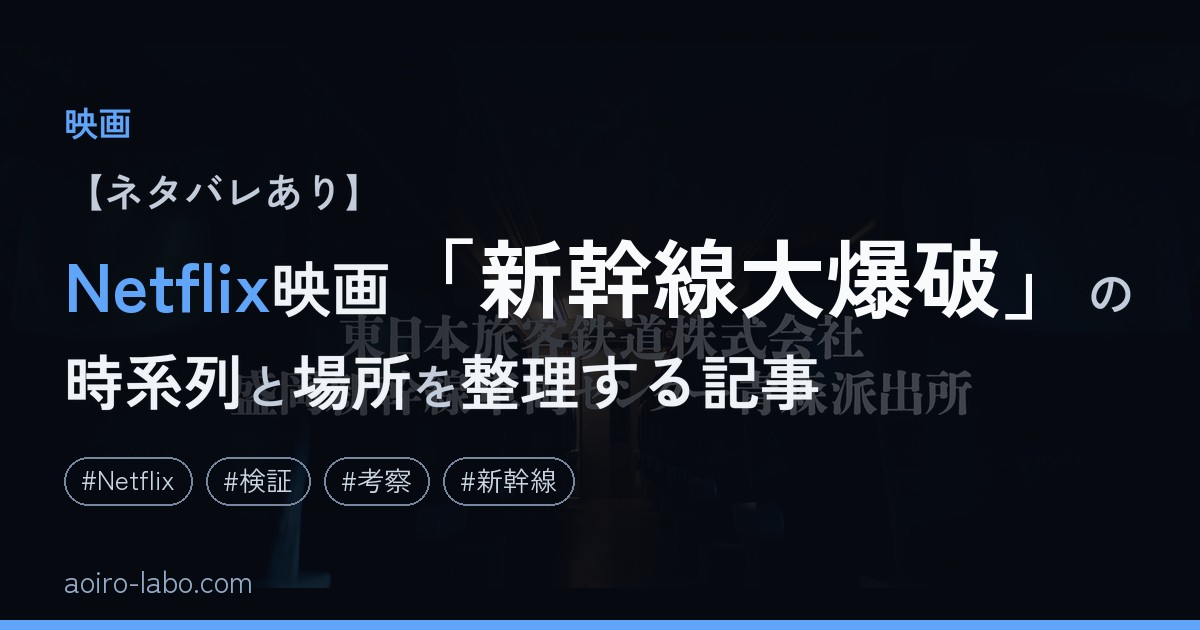
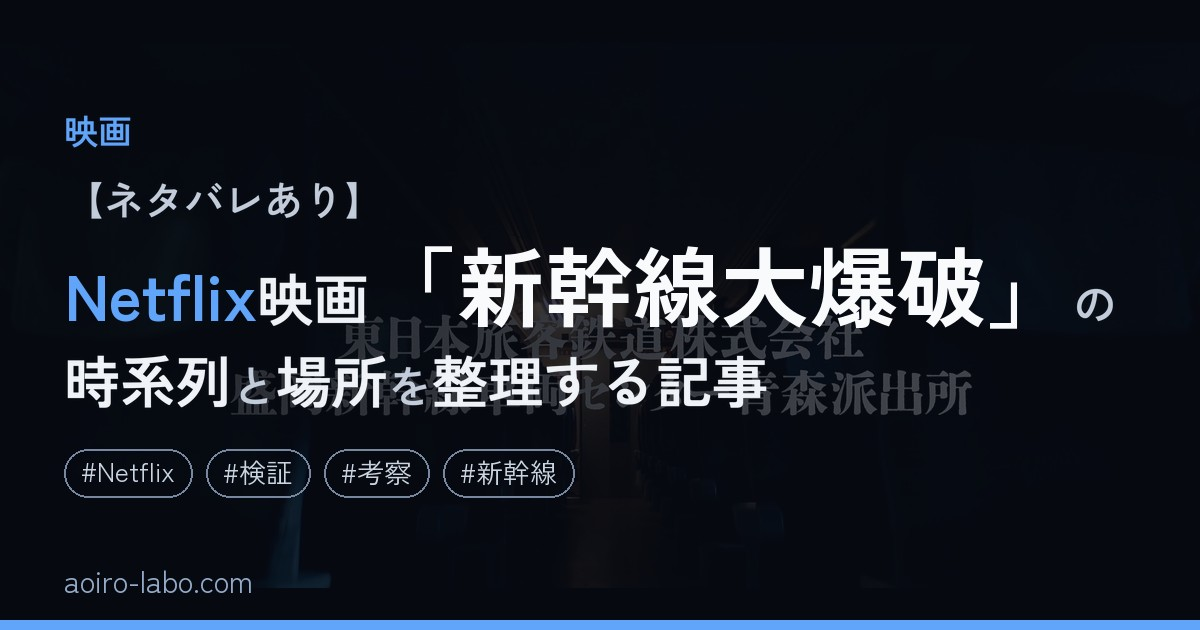
カバー生成：行間を詰め（1.38→1.30）、heroを少し大きく（1.45→1.58）

diff --git a/tools/generate_cover.py b/tools/generate_cover.py
@@ -257,7 +257,7 @@ def background(acc):
     return ImageChops.add(img, glow)
 
 def style_of(cls, size, acc):
-    if cls=='hero': return cover_font("Bold", int(size*1.45)), WHITE, False
+    if cls=='hero': return cover_font("Bold", int(size*1.58)), WHITE, False
     if cls=='accent': return cover_font("Bold", int(size*1.15)), acc, False
     if cls=='sub': return cover_font("SemiBold", max(20,int(size*0.8))), SUBC, True
     return cover_font("SemiBold", size), BASE, True
@@ -269,7 +269,7 @@ def line_heights(lines, size, acc):
         for (text, cls, glue) in ln:
             fnt,_,_=style_of(cls, size, acc)
             mx=max(mx, fnt.size)
-        hs.append(int(mx*1.38))
+        hs.append(int(mx*1.30))
     return hs
 
 def draw_lines(d, img, items, lines, widths, x0, y_top, size, acc, heights):
